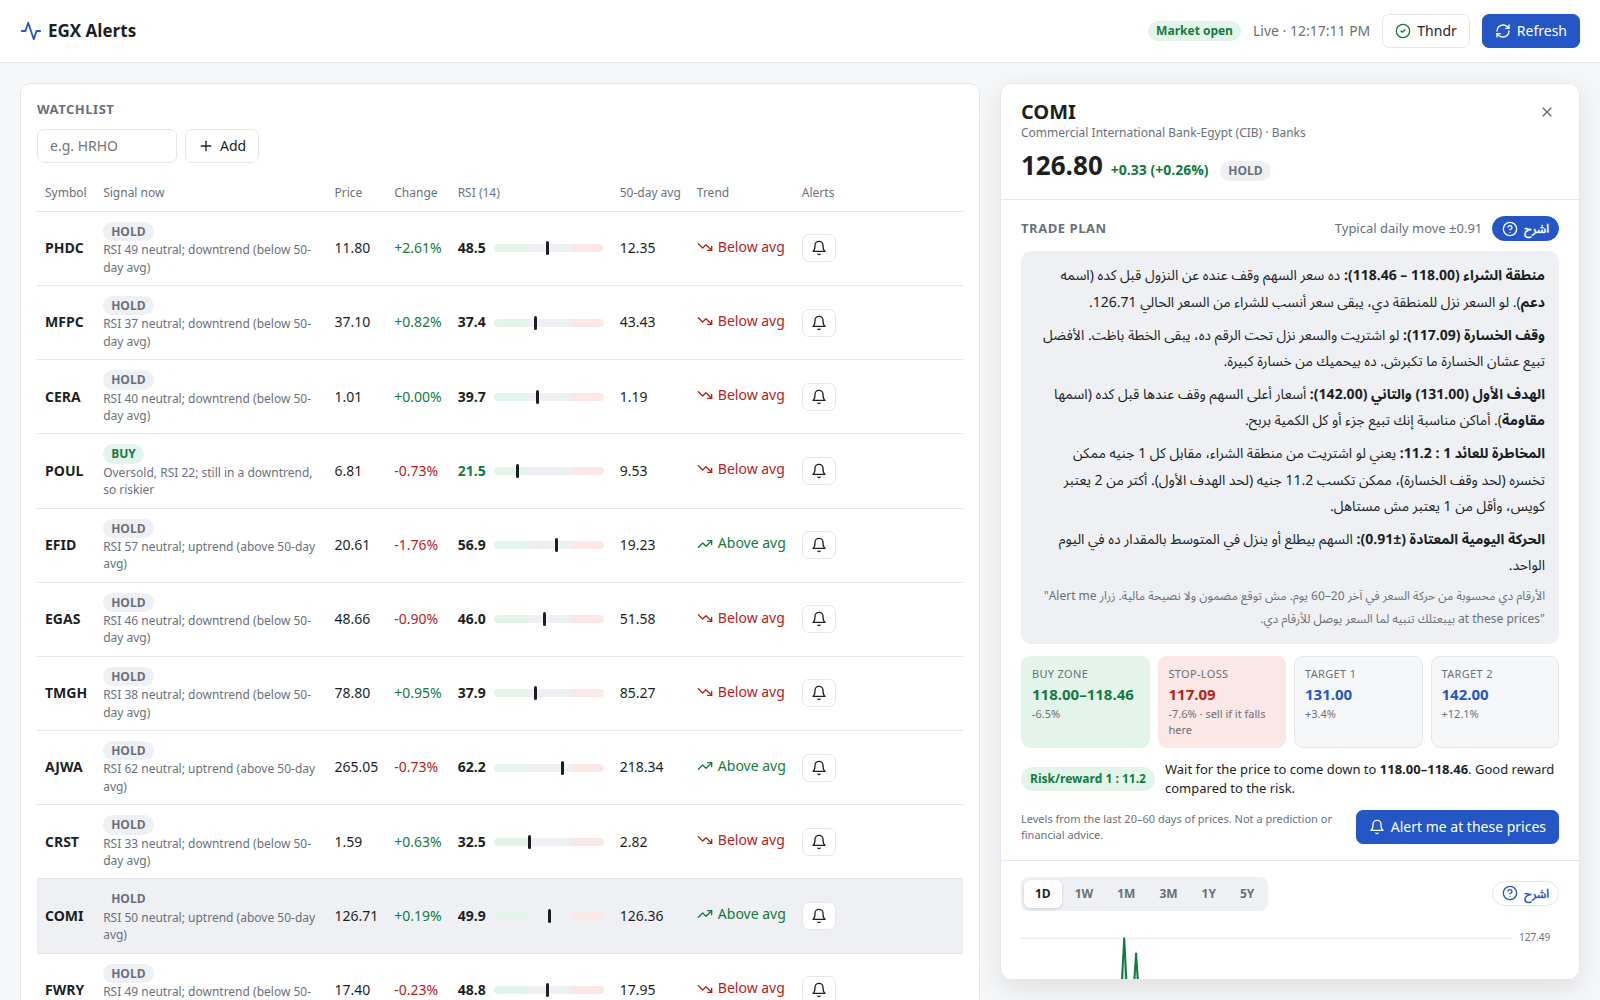
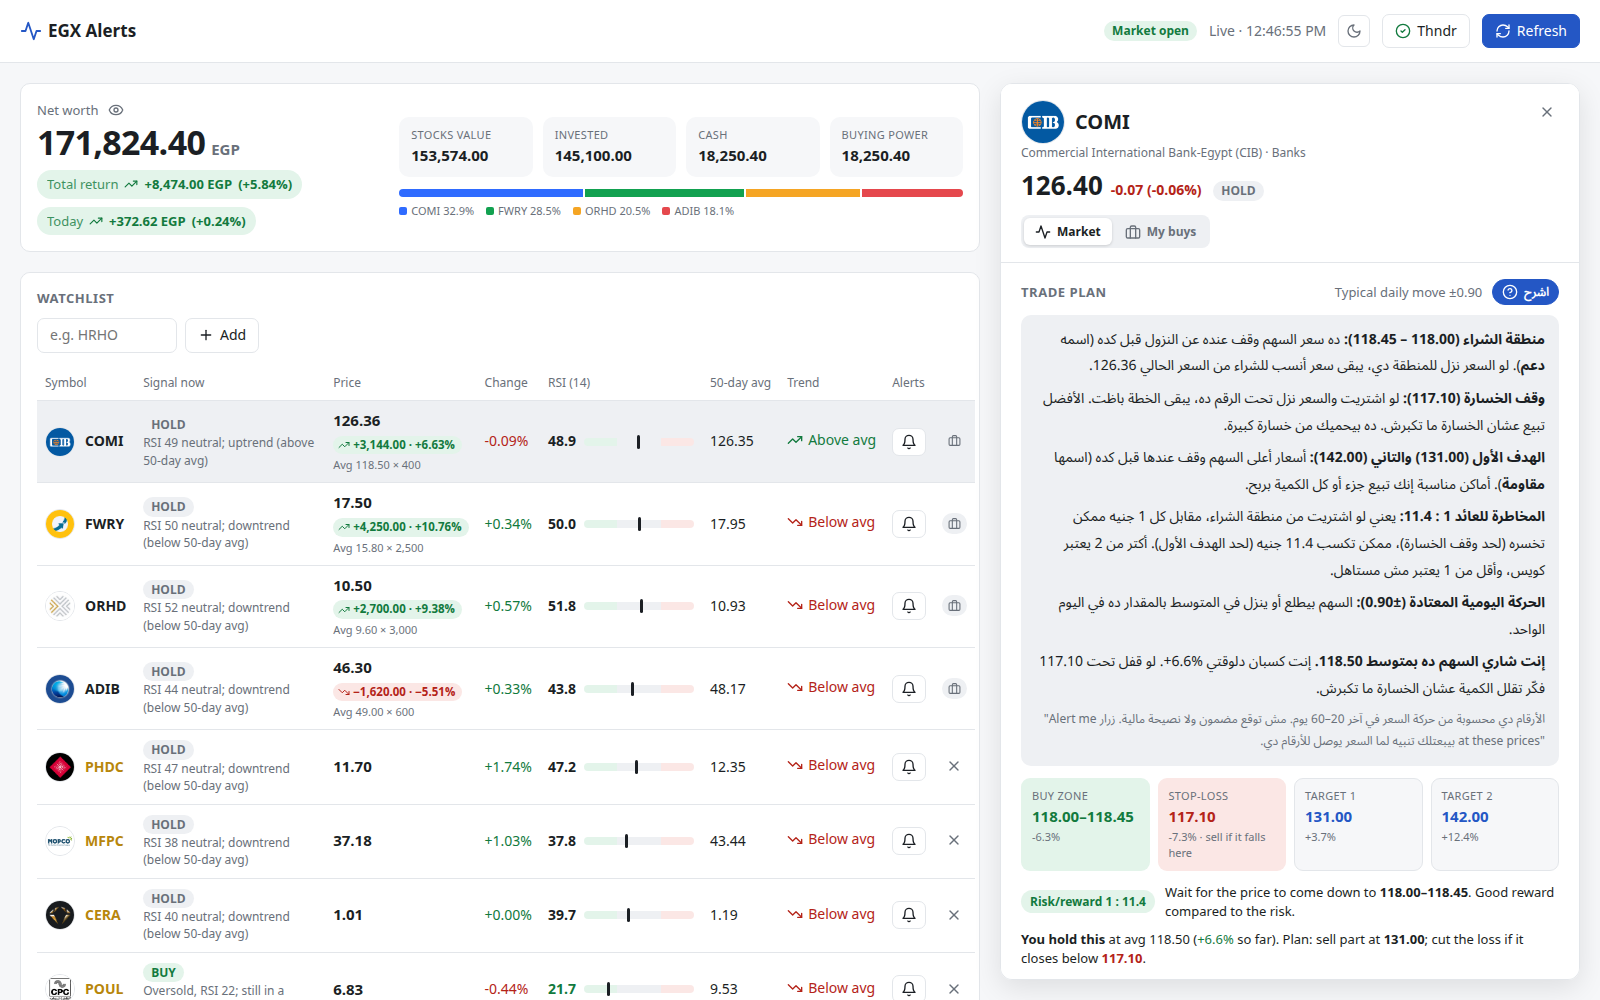
Price column redesign, no link underline, README screenshots with demo data + dark mode

diff --git a/index.html b/index.html
@@ -39,6 +39,7 @@
   body.side-open main, body.side-open footer { margin-right: 600px; }
   /* sidebar open: drop the two least important columns (RSI 30 days, New alert today) so the table fits */
   body.side-open #watch :is(th, td):is(:nth-child(6), :nth-child(9)) { display: none; }
+  body.side-open #watch td:last-child .pill { font-size: 0; gap: 0; padding: 4px 6px; } /* sidebar open: briefcase icon only */
   #rows tr[data-sym] { cursor: pointer; }
   #rows tr[data-sym]:hover td { background: var(--bg); }
   #rows tr.sel td { background: var(--zone); }
@@ -132,9 +133,18 @@
   .logo img { position: absolute; inset: 0; width: 100%; height: 100%; object-fit: contain; background: #fff; }
   .logo i { font-style: normal; font-weight: 700; font-size: 12px; color: var(--muted); }
   aside .head .logo { width: 44px; height: 44px; } aside .head .logo i { font-size: 16px; }
-  .pnl { display: block; font-size: 12px; font-weight: 600; font-variant-numeric: tabular-nums; margin-top: 1px; white-space: nowrap; }
+  /* Price column: big price, then (for stocks you own) a P&L pill and "avg × shares" */
+  .pcell .p { font-size: 15px; font-weight: 700; }
+  .pcell .avgb { display: flex; flex-direction: column; align-items: flex-start; gap: 3px; margin-top: 4px; }
+  .pnl { display: inline-flex; align-items: center; gap: 3px; font-size: 11.5px; font-weight: 700; font-variant-numeric: tabular-nums;
+         padding: 1px 7px 1px 5px; border-radius: 99px; white-space: nowrap; }
+  .pnl.up { background: var(--buy-bg); } .pnl.down { background: var(--sell-bg); }
+  .pnl .ic { width: 12px; height: 12px; }
+  .avgl { font-size: 11px; color: var(--muted); white-space: nowrap; }
+  .avgb:hover .avgl { color: var(--accent); }
+  .avgb, .avgb * { text-decoration: none !important; }
   .avgb { display: block; text-align: left; border: 0; background: none; padding: 0; margin-top: 1px; font-size: 11px; color: var(--muted); font-variant-numeric: tabular-nums; }
-  .avgb:hover { color: var(--accent); text-decoration: underline; }
+  .avgb:hover { color: var(--accent); }
   #side-tabs { margin-top: 10px; } #side-tabs:empty { display: none; }
   .rec { display: flex; gap: 10px; align-items: flex-start; padding: 12px 14px; border-radius: 10px; background: var(--zone); }
   .rec .ic { width: 20px; height: 20px; margin-top: 1px; }
@@ -326,7 +336,7 @@ function pnlCell(s, r) {
   const p = posOf(s, r.sym);
   if (!p || p.avg == null) return '';
   const pl = (r.price - p.avg) * p.qty, pct = ((r.price - p.avg) / p.avg) * 100, cls = pl >= 0 ? 'up' : 'down';
-  return `<button class="avgb money" data-avg="${esc(r.sym)}" title="${money(p.qty, 0)} shares · avg ${fmt(p.avg)} EGP. Click for all your buys"><span class="pnl ${cls}">${signed(pl)} (${signed(pct)}%)</span>Avg ${fmt(p.avg)}</button>`;
+  return `<button class="avgb money" data-avg="${esc(r.sym)}" title="${money(p.qty, 0)} shares · avg ${fmt(p.avg)} EGP. Click for all your buys"><span class="pnl ${cls}">${icon(pl >= 0 ? 'up' : 'down')}${signed(pl)} · ${signed(pct)}%</span><span class="avgl">Avg ${fmt(p.avg)} × ${money(p.qty, 0)}</span></button>`;
 }
 function renderPortfolio(s) {
   const syms = Object.keys(s.positions || {});
@@ -402,7 +412,7 @@ function render(s) {
     return `<tr data-sym="${esc(sym)}"${sym === sideSym ? ' class="sel"' : ''}>
       <td><div class="symcell">${logo(sym)}<b class="${s.held.includes(sym) ? '' : 'notheld'}" title="${s.held.includes(sym) ? 'In your portfolio' : 'Not in your portfolio'}">${esc(sym)}</b></div></td>
       <td style="white-space:normal;min-width:190px"><span class="pill ${esc(r.now.side)}">${esc(r.now.side)}</span><div class="muted" style="font-size:12px">${esc(r.now.why)}</div></td>
-      <td class="num">${fmt(r.price)}${pnlCell(s, r)}</td>
+      <td class="num pcell"><div class="p">${fmt(r.price)}</div>${pnlCell(s, r)}</td>
       <td class="num ${r.change >= 0 ? 'up' : 'down'}">${r.change == null ? '—' : (r.change >= 0 ? '+' : '') + fmt(r.change) + '%'}</td>
       <td><div class="rsi"><b class="num ${zone}">${fmt(r.rsi, 1)}</b>${r.rsi == null ? '' : `<div class="bar"><i style="left:calc(${r.rsi}% - 1px)"></i></div>`}</div></td>
       <td>${spark(r.rsiTrail)}</td>

diff --git a/README.md b/README.md
@@ -7,19 +7,27 @@
 
 ## Screenshots
 
-![Watchlist: signals, RSI, trend and your holdings](docs/screenshots/main.png)
+![Net worth, per-stock profit/loss and the watchlist with signals, RSI and trend](docs/screenshots/main.png)
 
 | Trade plan, chart and key stats | Order book with buyer/seller pressure |
 |---|---|
 | ![Sidebar with trade plan and chart](docs/screenshots/side.png) | ![Order book](docs/screenshots/book.png) |
 | **اشرح: plain-Arabic explanations** | **Per-stock buy/sell alerts** |
 | ![Arabic explanation of the trade plan](docs/screenshots/arabic.png) | ![Alerts dialog](docs/screenshots/alerts.png) |
+| **Dark mode** | |
+| ![Dark mode](docs/screenshots/dark.png) | |
 
-<sub>Personal portfolio details (average prices, holdings) are hidden in these screenshots.</sub>
+<sub>Screenshots use a made-up demo portfolio; no real account data is shown.</sub>
 
 ## Features
 
+- **Net worth card (Thndr-style)**
+  - Net worth in EGP with total return and today's change in green or red, updating live.
+  - Stocks value, invested amount, cash, buying power, and a colour bar of how your portfolio is split.
+  - An eye button blurs all amounts when someone is looking at your screen.
 - **Watchlist**
+  - Company logos from Thndr.
+  - For each stock you own: profit or loss in EGP and %, plus your average price and number of shares.
   - Price, change, RSI(14) with a 30-day sparkline, 50-day average and trend.
   - Prices update live every 5 s while the market is open.
   - Stocks you own sync from Thndr and show your average buy price.
@@ -39,6 +47,7 @@
   - Key stats: open/high/low, volume, P/E, dividend yield, 52-week range.
   - Order book with buyer/seller pressure, plus the latest trades.
   - Your buy history and a hold / average down / take profit / reduce suggestion.
+- **Dark / light mode** toggle in the top bar.
 - **اشرح buttons** explain every section in simple Egyptian Arabic, using the stock's real numbers.
 
 ## Download
